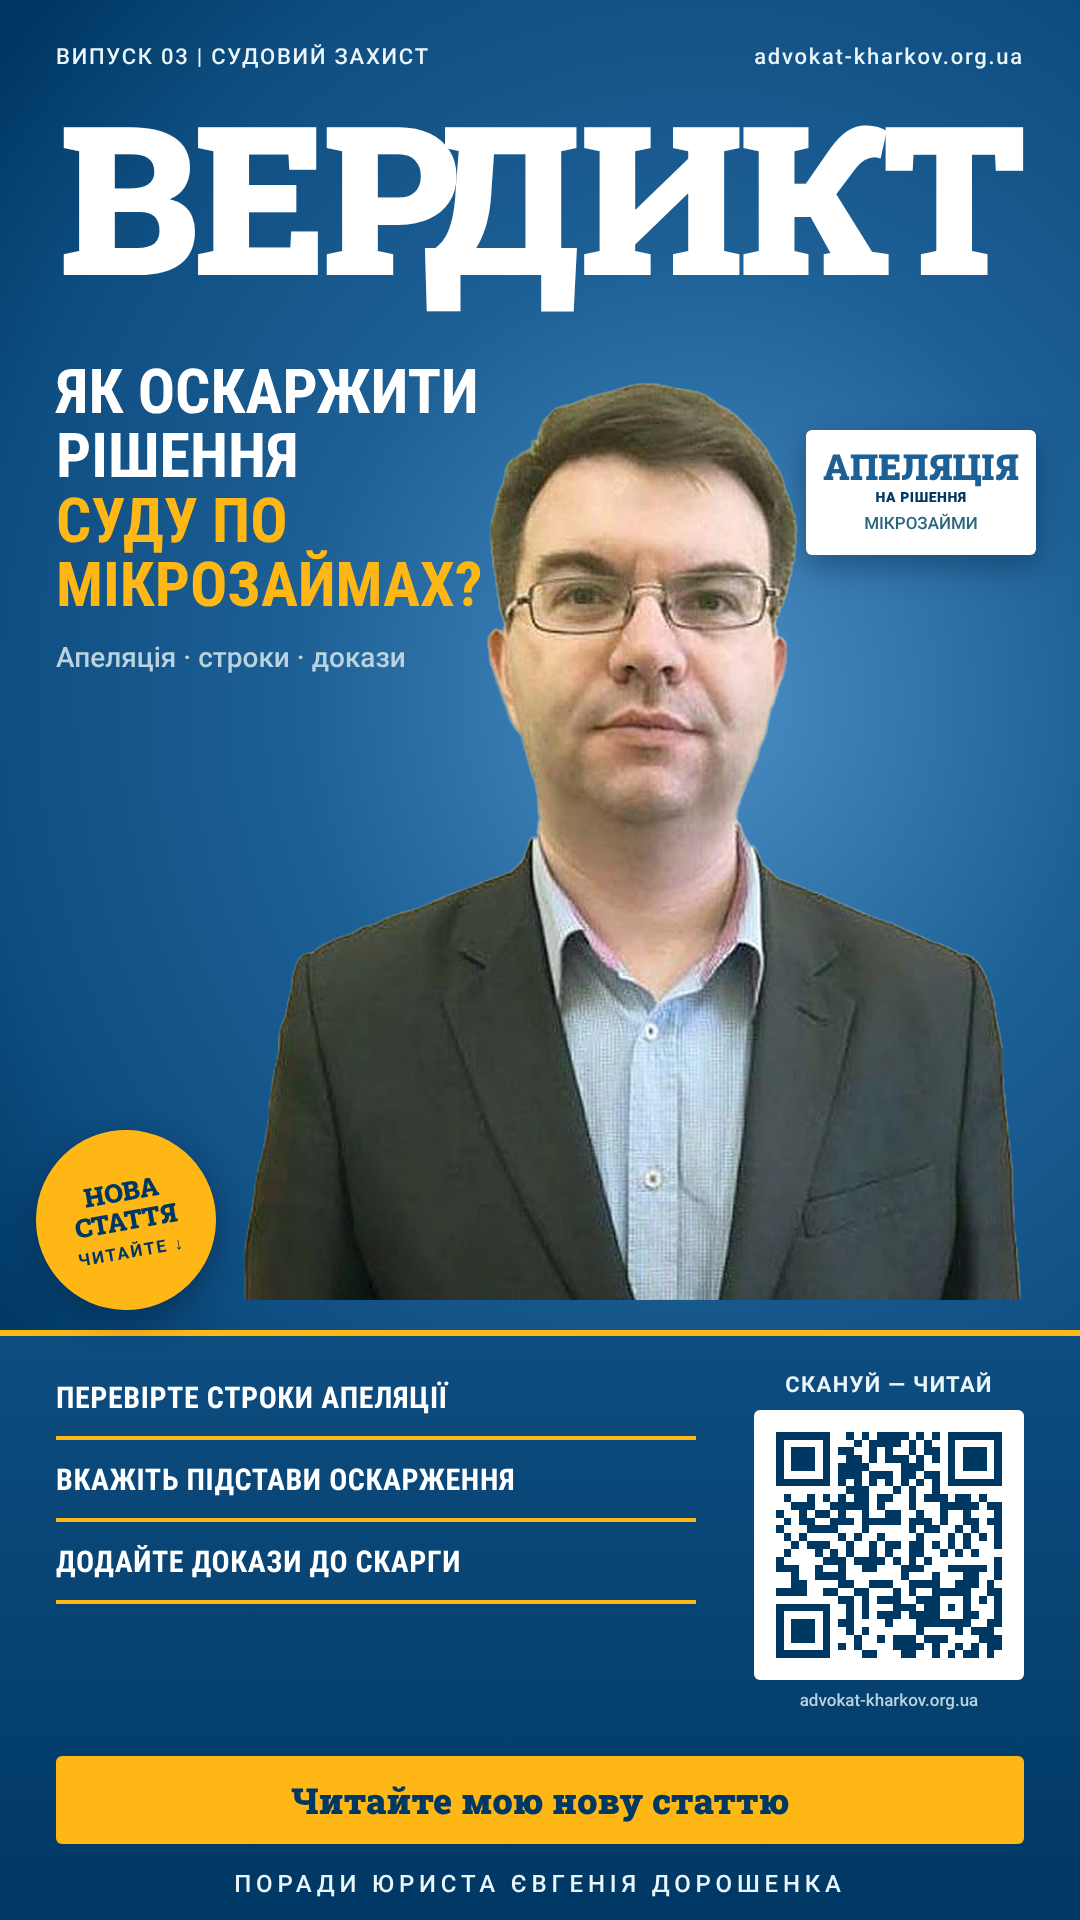
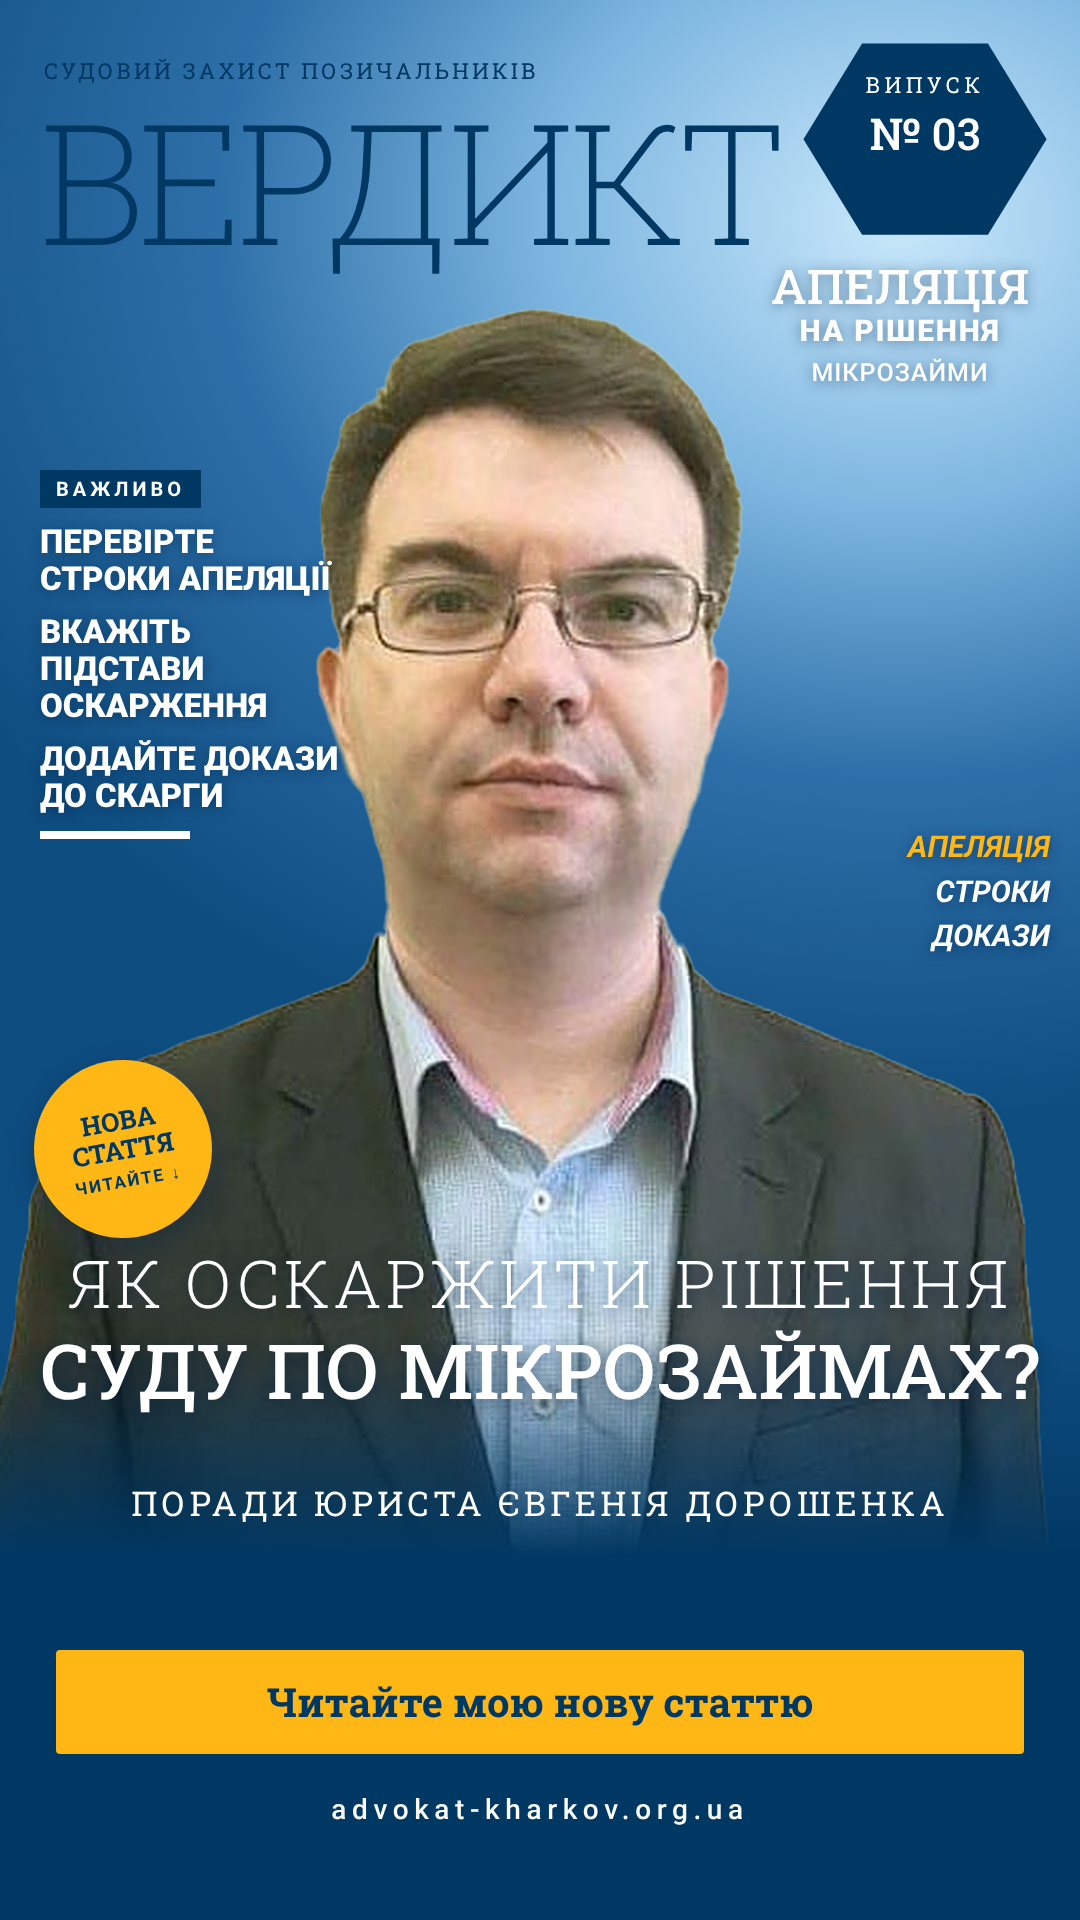
advokat-kharkov.org.ua: Stories-креативи у новому макеті (без QR)
Claude-Session: https://claude.ai/code/session_01JFMyDWjEn8kTss89Uu1jSY

diff --git a/lawyer-sites/advokat-kharkov.org.ua/stories/story.html b/lawyer-sites/advokat-kharkov.org.ua/stories/story.html
@@ -1,59 +1,63 @@
 <!doctype html><html lang="uk"><head><meta charset="utf-8">
-<link href="https://fonts.googleapis.com/css2?family=Roboto:wght@400;500;700;900&family=Roboto+Condensed:wght@700&family=Roboto+Slab:wght@700;900&display=swap" rel="stylesheet">
+<link href="https://fonts.googleapis.com/css2?family=Roboto:ital,wght@0,400;0,500;0,700;0,900;1,700&family=Roboto+Slab:wght@200;300;400;500;700&display=swap" rel="stylesheet">
 <style>
 *{box-sizing:border-box;margin:0;padding:0}
 body{width:1080px;height:1920px;position:relative;overflow:hidden;font-family:Roboto,sans-serif;background:#1D6096}
-.bg{position:absolute;inset:0;background:radial-gradient(ellipse 900px 1000px at 700px 700px,#4C8FC6 0%,#1D6096 45%,#0E4D80 80%,#003864 100%)}
-.top{position:absolute;left:56px;right:56px;top:46px;display:flex;justify-content:space-between;font:500 22px/1 Roboto,sans-serif;letter-spacing:.08em;color:#EAF6FA;white-space:nowrap}
-.mast{position:absolute;left:0;right:0;top:90px;text-align:center;font:900 300px/1 'Roboto Slab',serif;color:#fff;white-space:nowrap;letter-spacing:-4px}
-.photo{position:absolute;left:170px;top:340px;width:960px;z-index:2}
+.bg{position:absolute;inset:0;background:radial-gradient(ellipse 1100px 900px at 900px 220px,#C9E8FB 0%,#7DB6E0 32%,#2D6FA8 62%,#0E4D80 100%)}
+.mast{position:absolute;left:40px;top:96px;text-align:left;font:200 400px/1 'Roboto Slab',serif;color:#003864;white-space:nowrap;letter-spacing:-6px}
+.tag{position:absolute;left:44px;top:60px;font:400 22px/1 'Roboto Slab',serif;letter-spacing:.14em;color:#003864;text-transform:uppercase}
+.photo{position:absolute;left:-120px;top:250px;width:1320px;z-index:2}
 .photo img{width:100%;display:block}
-.head{position:absolute;left:56px;top:360px;width:450px;z-index:4;font:700 74px/1.04 'Roboto Condensed',sans-serif;color:#fff;text-transform:uppercase}
-.head .a{display:block}.head .b{display:block;color:#FFB716}
-.subt{position:absolute;left:56px;width:400px;z-index:4;font:500 28px/1.3 Roboto,sans-serif;color:#B9D4DF}
-.stat{position:absolute;right:44px;top:430px;width:230px;z-index:4;background:#fff;border-radius:6px;padding:18px 14px 20px;text-align:center;box-shadow:0 12px 30px rgba(0,30,60,.4)}
-.stat .n{display:inline-block;white-space:nowrap;font:900 62px/1 'Roboto Slab',serif;color:#1D6096}
-.stat .l{font:900 22px/1.1 Roboto,sans-serif;color:#003864;margin-top:6px;letter-spacing:.04em}
-.stat .s{font:500 17px/1.25 Roboto,sans-serif;color:#2A657E;margin-top:8px}
-.sticker{position:absolute;left:36px;top:1130px;width:180px;height:180px;border-radius:50%;background:#FFB716;color:#003864;z-index:5;transform:rotate(-10deg);display:flex;flex-direction:column;align-items:center;justify-content:center;text-align:center;font:900 26px/1.1 'Roboto Slab',serif;box-shadow:0 10px 30px rgba(0,30,60,.45)}
+.fade{position:absolute;left:0;right:0;top:1340px;height:240px;background:linear-gradient(180deg,rgba(0,56,100,0),#003864 90%);z-index:3}
+.base{position:absolute;left:0;right:0;top:1570px;bottom:0;background:#003864;z-index:3}
+.tips{position:absolute;left:40px;top:470px;width:300px;z-index:5}
+.lab{display:inline-block;background:#003864;color:#fff;font:700 20px/1 Roboto,sans-serif;letter-spacing:.2em;padding:9px 16px;margin-bottom:16px}
+.tips .t{color:#fff;font:900 33px/1.12 Roboto,sans-serif;text-transform:uppercase;margin-bottom:16px;text-shadow:0 2px 12px rgba(0,40,80,.55)}
+.tips .bar{width:150px;height:8px;background:#fff;margin-top:6px}
+.hex{position:absolute;right:30px;top:40px;width:250px;height:198px;z-index:5}
+.hex svg{position:absolute;inset:0}
+.hex .a{position:absolute;left:0;right:0;top:34px;text-align:center;font:400 22px/1 'Roboto Slab',serif;letter-spacing:.2em;color:#fff}
+.hex .b{position:absolute;left:0;right:0;top:72px;text-align:center;font:500 44px/.98 'Roboto Slab',serif;color:#fff;text-transform:uppercase;padding:0 30px}
+.stat{position:absolute;right:30px;top:262px;width:300px;text-align:center;color:#fff;z-index:5;text-shadow:0 2px 14px rgba(0,40,80,.5)}
+.stat .n{display:inline-block;white-space:nowrap;font:500 150px/1 'Roboto Slab',serif;color:#fff}
+.stat .l{font:900 30px/1.1 Roboto,sans-serif;letter-spacing:.06em;text-transform:uppercase;margin-top:4px}
+.stat .s{font:500 25px/1.3 Roboto,sans-serif;margin-top:10px;text-transform:uppercase;letter-spacing:.04em}
+.side{position:absolute;right:30px;top:830px;width:260px;z-index:5;color:#fff;text-align:right;text-shadow:0 2px 12px rgba(0,40,80,.6)}
+.side .i{font:italic 700 30px/1.15 Roboto,sans-serif;text-transform:uppercase;color:#FFB716;margin-bottom:10px}
+.side .d{font:italic 700 30px/1.15 Roboto,sans-serif;text-transform:uppercase;color:#fff;margin-bottom:10px}
+.t1{position:absolute;left:30px;right:30px;top:1250px;text-align:center;font:300 66px/1 'Roboto Slab',serif;color:#fff;text-transform:uppercase;letter-spacing:.06em;white-space:nowrap;z-index:5;text-shadow:0 3px 18px rgba(0,30,60,.6)}
+.t2{position:absolute;left:30px;right:30px;top:1330px;text-align:center;font:500 118px/1.04 'Roboto Slab',serif;color:#fff;text-transform:uppercase;white-space:nowrap;z-index:5;text-shadow:0 3px 18px rgba(0,30,60,.6)}
+.sub{position:absolute;left:0;right:0;top:1486px;text-align:center;font:400 34px/1 'Roboto Slab',serif;color:#fff;text-transform:uppercase;letter-spacing:.12em;white-space:nowrap;z-index:5}
+.sticker{position:absolute;left:34px;top:1060px;width:178px;height:178px;border-radius:50%;background:#FFB716;color:#003864;z-index:5;transform:rotate(-10deg);display:flex;flex-direction:column;align-items:center;justify-content:center;text-align:center;font:700 26px/1.1 'Roboto Slab',serif;box-shadow:0 10px 30px rgba(0,30,60,.45)}
 .sticker small{font:700 17px/1.2 Roboto,sans-serif;letter-spacing:.12em;margin-top:8px}
-.panel{position:absolute;left:0;right:0;top:1330px;bottom:0;background:linear-gradient(180deg,#0E4D80,#003864);z-index:3;border-top:6px solid #FFB716}
-.list{position:absolute;left:56px;top:1380px;width:640px;z-index:5}
-.list .t{color:#fff;font:700 30px/1.2 'Roboto Condensed',sans-serif;letter-spacing:.02em;text-transform:uppercase;padding-bottom:20px;margin-bottom:22px;border-bottom:4px solid #FFB716}
-.list .t:last-child{margin-bottom:0}
-.qr{position:absolute;right:56px;top:1372px;width:270px;z-index:5;text-align:center;color:#EAF6FA}
-.qr .lab{font:700 22px/1.2 Roboto,sans-serif;letter-spacing:.06em;margin-bottom:12px}
-.qr .box{background:#fff;padding:14px;border-radius:6px}
-.qr .box svg{display:block;width:100%;height:auto}
-.qr .u{font:500 17px/1.2 Roboto,sans-serif;margin-top:10px;color:#B9D4DF;word-break:break-all}
-.cta{position:absolute;left:56px;right:56px;top:1756px;height:88px;background:#FFB716;color:#003864;font:900 36px/1 'Roboto Slab',serif;display:flex;align-items:center;justify-content:center;z-index:5;border-radius:6px}
-.by{position:absolute;left:0;right:0;top:1872px;text-align:center;color:#EAF6FA;font:500 24px/1 Roboto,sans-serif;letter-spacing:.2em;z-index:5}
+.by{position:absolute;left:0;right:0;top:1620px;text-align:center;color:#B9D4DF;font:500 26px/1 Roboto,sans-serif;letter-spacing:.2em;z-index:5}
+.cta{position:absolute;left:56px;right:56px;top:1650px;height:104px;background:#FFB716;color:#003864;font:700 40px/1 'Roboto Slab',serif;display:flex;align-items:center;justify-content:center;z-index:5;border-radius:4px}
+.dom{position:absolute;left:0;right:0;top:1796px;text-align:center;color:#fff;font:500 28px/1 Roboto,sans-serif;letter-spacing:.2em;z-index:5}
 </style></head><body>
 <div class="bg"></div>
-<div class="top"><span id="iss"></span><span>advokat-kharkov.org.ua</span></div>
 <div class="mast" id="mast"><span id="mastt" style="display:inline-block">ВЕРДИКТ</span></div>
+<div class="tag" id="tag"></div>
 <div class="photo"><img src="portrait-cutout.png"></div>
-<div class="head" id="head"><span class="a" id="t1"></span><span class="b" id="t2"></span></div>
-<div class="subt" id="subt"></div>
+<div class="fade"></div><div class="base"></div>
+<div class="tips"><span class="lab">ВАЖЛИВО</span><div id="tips"></div><div class="bar"></div></div>
+<div class="hex"><svg viewBox="0 0 290 230" preserveAspectRatio="none"><polygon points="72,4 218,4 286,115 218,226 72,226 4,115" fill="#003864"/></svg><div class="a">ВИПУСК</div><div class="b" id="iss"></div></div>
 <div class="stat"><div class="n" id="sn"></div><div class="l" id="sl"></div><div class="s" id="ss"></div></div>
+<div class="side"></div>
 <div class="sticker">НОВА<br>СТАТТЯ<small>ЧИТАЙТЕ ↓</small></div>
-<div class="panel"></div>
-<div class="list" id="tips"></div>
-<div class="qr"><div class="lab">СКАНУЙ — ЧИТАЙ</div><div class="box"><svg viewBox="0 0 31 31" shape-rendering="crispEdges"><rect width="31" height="31" fill="#fff"/><path d="M1 1.5h7m2 0h1m1 0h1m1 0h4m1 0h1m1 0h1m1 0h7m-29 1h1m5 0h1m3 0h1m1 0h4m1 0h1m1 0h1m2 0h1m5 0h1m-29 1h1m1 0h3m1 0h1m1 0h2m2 0h1m1 0h1m2 0h1m1 0h2m1 0h1m1 0h3m1 0h1m-29 1h1m1 0h3m1 0h1m2 0h2m1 0h1m1 0h3m1 0h1m1 0h1m1 0h1m1 0h3m1 0h1m-29 1h1m1 0h3m1 0h1m1 0h4m4 0h3m3 0h1m1 0h3m1 0h1m-29 1h1m5 0h1m1 0h3m1 0h3m1 0h2m1 0h2m1 0h1m5 0h1m-29 1h7m1 0h1m1 0h1m1 0h1m1 0h1m1 0h1m1 0h1m1 0h1m1 0h7m-20 1h3m3 0h1m1 0h1m2 0h1m-20 1h1m2 0h1m1 0h1m1 0h1m1 0h2m1 0h2m2 0h1m1 0h3m1 0h2m1 0h1m-25 1h3m2 0h5m1 0h1m3 0h1m3 0h5m1 0h2m-29 1h1m2 0h1m1 0h2m1 0h1m2 0h1m2 0h2m2 0h1m2 0h1m2 0h1m3 0h1m-28 1h1m1 0h2m2 0h3m1 0h5m1 0h3m1 0h1m2 0h2m1 0h2m-29 1h1m3 0h4m3 0h1m5 0h1m1 0h2m2 0h1m1 0h1m2 0h1m-28 1h1m1 0h1m4 0h1m1 0h1m2 0h1m4 0h1m3 0h1m1 0h1m1 0h1m1 0h1m-27 1h1m1 0h3m2 0h1m2 0h1m1 0h2m1 0h2m1 0h1m1 0h1m1 0h1m3 0h1m-28 1h1m3 0h1m1 0h1m1 0h1m2 0h1m1 0h1m2 0h2m2 0h1m1 0h1m1 0h1m-26 1h1m5 0h3m1 0h4m1 0h1m1 0h1m1 0h1m8 0h1m-29 1h3m2 0h1m2 0h1m2 0h2m3 0h3m3 0h5m1 0h1m-27 1h1m2 0h4m7 0h1m3 0h1m3 0h2m2 0h1m-27 1h2m4 0h2m2 0h3m2 0h4m2 0h3m1 0h1m-28 1h4m2 0h2m2 0h2m3 0h1m1 0h1m2 0h5m2 0h2m-21 1h2m1 0h1m1 0h3m2 0h3m3 0h1m1 0h1m1 0h1m-29 1h7m2 0h1m1 0h1m3 0h3m1 0h2m1 0h1m1 0h1m3 0h1m-29 1h1m5 0h1m2 0h1m1 0h1m1 0h3m1 0h4m3 0h2m2 0h1m-29 1h1m1 0h3m1 0h1m1 0h2m4 0h1m3 0h7m2 0h2m-29 1h1m1 0h3m1 0h1m2 0h1m1 0h1m6 0h1m4 0h1m1 0h3m-28 1h1m1 0h3m1 0h1m3 0h1m2 0h1m1 0h3m1 0h3m4 0h3m-29 1h1m5 0h1m1 0h1m1 0h1m4 0h4m1 0h1m2 0h1m1 0h1m1 0h2m-29 1h7m4 0h2m3 0h2m2 0h1m1 0h1m1 0h2m1 0h1" stroke="#003864" fill="none"/></svg></div><div class="u">advokat-kharkov.org.ua</div></div>
-<div class="cta">Читайте мою нову статтю</div>
-<div class="by" id="by">ПОРАДИ ЮРИСТА ЄВГЕНІЯ ДОРОШЕНКА</div>
+<div class="t1" id="t1"></div><div class="t2" id="t2"></div><div class="sub" id="sub"></div>
+
+<div class="cta">Читайте мою нову статтю</div><div class="dom">advokat-kharkov.org.ua</div>
 <script>
 const p=new URLSearchParams(location.search);const d=JSON.parse(p.get('d'));
-document.getElementById('iss').textContent='ВИПУСК '+d.n+' | СУДОВИЙ ЗАХИСТ';
+document.getElementById('tag').textContent='Судовий захист позичальників';
+document.getElementById('iss').textContent='№ '+d.n;
 document.getElementById('tips').innerHTML=d.tips.map(t=>'<div class="t">'+t+'</div>').join('');
 document.getElementById('sn').textContent=d.stat[0];document.getElementById('sl').textContent=d.stat[1];document.getElementById('ss').textContent=d.stat[2];
+const g=d.gold.split(' · ');document.querySelector('.side').innerHTML=g.map(function(x,k){return '<div class="'+(k==0?'i':'d')+'">'+x+'</div>'}).join('');
 document.getElementById('t1').textContent=d.t1;document.getElementById('t2').textContent=d.t2;
-document.getElementById('subt').textContent=d.gold;
+document.getElementById('sub').textContent='Поради юриста Євгенія Дорошенка';
 function fit(el,max,w){let s=max;el.style.fontSize=s+'px';while(el.scrollWidth>w&&s>14){s-=2;el.style.fontSize=s+'px'}}
-document.fonts.ready.then(()=>{
- var h=document.getElementById('head'),z=74;var words=(d.t1+' '+d.t2).split(' ');var ms=document.createElement('span');ms.style.cssText='position:absolute;visibility:hidden;white-space:nowrap;font:700 74px/1 "Roboto Condensed";text-transform:uppercase';document.body.appendChild(ms);var mw=0;words.forEach(function(w){ms.textContent=w;mw=Math.max(mw,ms.offsetWidth)});z=Math.min(74,Math.floor(74*430/mw));h.style.fontSize=z+'px';while(h.offsetHeight>560&&z>36){z-=2;h.style.fontSize=z+'px'}
- document.getElementById('subt').style.top=(360+h.offsetHeight+22)+'px';
- fit(document.getElementById('sn'),62,200);fit(document.getElementById('sl'),22,200);
- (function(){var m=document.getElementById('mast'),t=document.getElementById('mastt'),zz=300;m.style.fontSize=zz+'px';while(t.offsetWidth>968&&zz>80){zz-=4;m.style.fontSize=zz+'px'}})();
- document.title='ready'});
+document.fonts.ready.then(()=>{fit(document.getElementById('t2'),118,1020);fit(document.getElementById('t1'),66,1020);fit(document.getElementById('sn'),130,260);fit(document.getElementById('sl'),30,300);
+(function(){var m=document.getElementById('mast'),t=document.getElementById('mastt'),z=400;m.style.fontSize=z+'px';while(t.offsetWidth>740&&z>80){z-=4;m.style.fontSize=z+'px'}})();
+document.title='ready'});
 </script></body></html>
